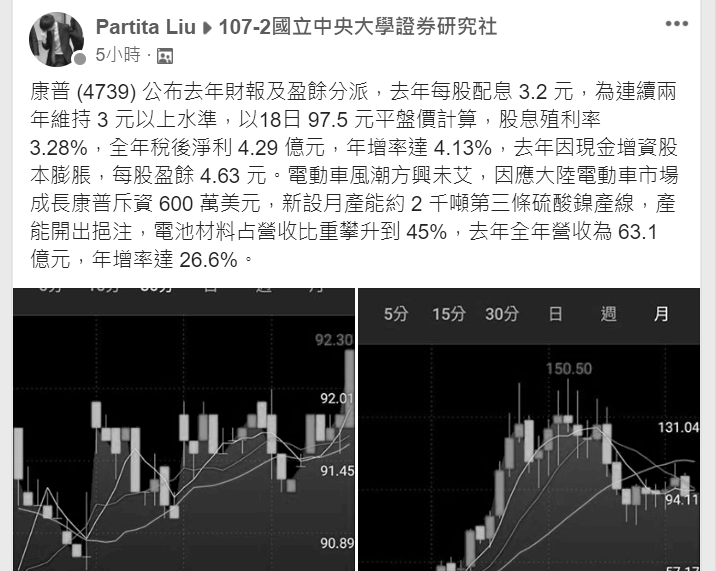
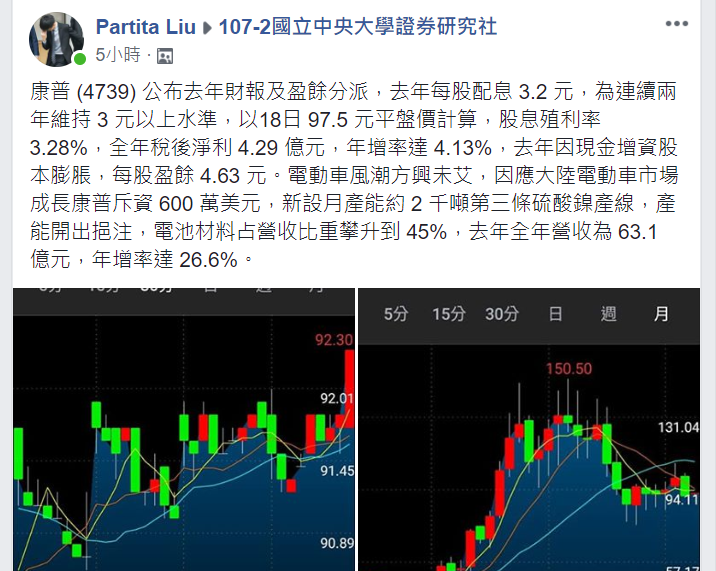
test pixel

diff --git a/main_code.py b/main_code.py
@@ -1,9 +1,18 @@
 import numpy as np
 import cv2 as cv
+import os
+import sys
 
-img = cv.imread("temp.png", 0)
+img = cv.imread("temp.png", cv.IMREAD_COLOR)
 cv.imshow("hello image", img)
+print(len(img))
+px = img[0, 0]
+print(px)
 cv.namedWindow("hello image", cv.WINDOW_NORMAL)
 cv.waitKey(0)
 cv.destroyAllWindows()
 cv.imwrite("copy_temp.png", img)
+
+array = [[1, 2], [3, 4]]
+print(array[1][0])
+print(len(array))
